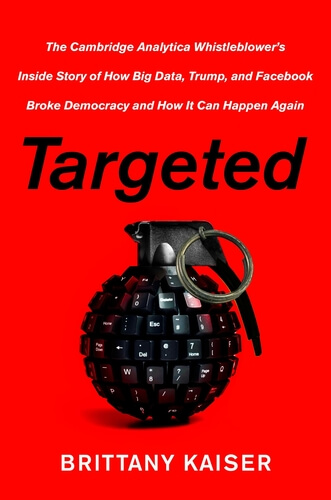
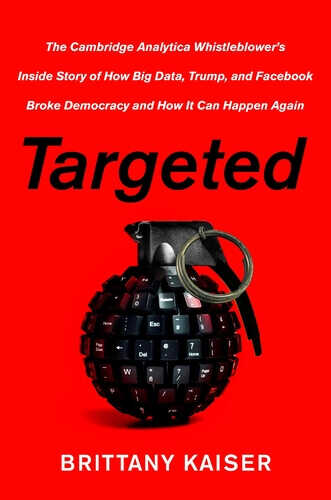
Added new book
Optimized images

diff --git a/js/data/translations/es-sv/min/booksList.js b/js/data/translations/es-sv/min/booksList.js
@@ -1,1 +1,1 @@
-const booksList=[{title:"Harry Potter y la Orden del Fénix",img:"../img/books/es/HP.jpg",link:"https://amzn.to/3pi6YCg"},{title:"Timeless Stories of El Salvador",img:"../img/books/mybook1.jpg",link:"https://amzn.to/3nnbn4e",isActive:!0},{title:"Como ganar amigos e influir sobre las personas",img:"../img/books/es/WF.jpg",link:"https://amzn.to/2ZEIzhg"},{title:"Cómo suprimir las preocupaciones y disfrutar de la vida",img:"../img/books/es/worry.jpg",link:"https://amzn.to/3EfkLzQ"},{title:"Your Next Five Moves (inglés)",img:"../img/books/en/moves.jpg",link:"https://amzn.to/3lriwSB"},{title:"Personal Branding with LinkedIn: The Think Natalia Method (inglés)",img:"../img/books/en/linkedin.jpg",link:"https://amzn.to/2MOgslZ"},{title:"El monje que vendió su Ferrari",img:"../img/books/es/monk.jpg",link:"https://amzn.to/3paJhM2"},{title:"Targeted (inglés)",img:"../img/books/en/targeted.jpg",link:"https://amzn.to/31h16AM"},{title:"Mala sangre: Secretos y mentiras en una startup de Silicon Valley",img:"../img/books/es/blood.jpg",link:"https://amzn.to/3dn4FZb"},{title:"The 25 Laws for Doing The Impossible (inglés)",img:"../img/books/en/impossible.jpg",link:"https://bit.ly/2L90eon"},{title:"Software Architecture for Developers (inglés)",img:"../img/books/en/arch.jpg",link:"https://bit.ly/3I29FjM"},{title:"User Story Mapping: Discover the Whole Story, Build the Right Product",img:"../img/books/en/sm.jpg",link:"https://bit.ly/377v3SN"}];
+const booksList=[{title:"Harry Potter y la Orden del Fénix",img:"../img/books/es/HP.jpg",author:"J.K. Rowling",link:"https://amzn.to/3pi6YCg"},{title:"Timeless Stories of El Salvador",img:"../img/books/mybook1.jpg",author:"Federico Navarrete",link:"https://amzn.to/3nnbn4e",isActive:!0},{title:"Como ganar amigos e influir sobre las personas",img:"../img/books/es/WF.jpg",author:"Dale Carnegie",link:"https://amzn.to/2ZEIzhg"},{title:"Cómo suprimir las preocupaciones y disfrutar de la vida",img:"../img/books/es/worry.jpg",author:"Dale Carnegie",link:"https://amzn.to/3EfkLzQ"},{title:"Your Next Five Moves (inglés)",img:"../img/books/en/moves.jpg",author:"Patrick Bet-David",link:"https://amzn.to/3lriwSB"},{title:"Personal Branding with LinkedIn: The Think Natalia Method (inglés)",img:"../img/books/en/linkedin.jpg",author:"Natalia Wiechowski",link:"https://amzn.to/2MOgslZ"},{title:"El coach de Sillicon Valley / Trillion Dollar Coach",img:"../img/books/es/coach.jpg",author:"Alan Eagle, Eric Schmidt, y Jonathan Rosenberg",link:"https://amzn.to/3ElMq1Y"},{title:"Targeted: The Cambridge Analytica Whistleblower's Inside Story of How Big Data, Trump, and Facebook Broke Democracy and How It Can Happen Again (inglés)",img:"../img/books/en/targeted.jpg",author:"Brittany Kaiser",link:"https://amzn.to/31h16AM"},{title:"Mala sangre: Secretos y mentiras en una startup de Silicon Valley",img:"../img/books/es/blood.jpg",author:"John Carreyrou",link:"https://amzn.to/3dn4FZb"},{title:"The 25 Laws for Doing The Impossible (inglés)",img:"../img/books/en/impossible.jpg",author:"Patrick Bet-David",link:"https://bit.ly/2L90eon"},{title:"Software Architecture for Developers (inglés)",img:"../img/books/en/arch.jpg",author:"Simon Brown",link:"https://bit.ly/3I29FjM"},{title:"User Story Mapping: Discover the Whole Story, Build the Right Product",img:"../img/books/en/sm.jpg",author:"Jeff Patton",link:"https://bit.ly/377v3SN"},{title:"El monje que vendió su Ferrari",img:"../img/books/es/monk.jpg",author:"Robin Sharma",link:"https://amzn.to/3paJhM2"}];

diff --git a/js/data/translations/en-us/min/booksList.js b/js/data/translations/en-us/min/booksList.js
@@ -1,1 +1,1 @@
-const booksList=[{title:"Harry Potter and the Order of the Phoenix",img:"../img/books/en/HP.jpg",link:"https://amzn.to/2TtC6wY"},{title:"Timeless Stories of El Salvador",img:"../img/books/mybook1.jpg",link:"https://amzn.to/3nnbn4e",isActive:!0},{title:"How to Win Friends and Influence People",img:"../img/books/en/WF.jpg",link:"https://bit.ly/2p0eZNl"},{title:"How to Stop Worrying and Start Living",img:"../img/books/en/worry.jpg",link:"https://amzn.to/2ivFURl"},{title:"Your Next Five Moves",img:"../img/books/en/moves.jpg",link:"https://amzn.to/3lriwSB"},{title:"Personal Branding with LinkedIn: The Think Natalia Method",img:"../img/books/en/linkedin.jpg",link:"https://amzn.to/2MOgslZ"},{title:"The Monk Who Sold His Ferrari",img:"../img/books/en/monk.jpg",link:"https://amzn.to/2fjDsY5"},{title:"Targeted",img:"../img/books/en/targeted.jpg",link:"https://amzn.to/31h16AM"},{title:"Bad Blood: Secrets and Lies in a Silicon Valley Startup",img:"../img/books/en/blood.jpg",link:"https://amzn.to/2XuIe9O"},{title:"The 25 Laws for Doing The Impossible",img:"../img/books/en/impossible.jpg",link:"https://bit.ly/2L90eon"},{title:"Software Architecture for Developers",img:"../img/books/en/arch.jpg",link:"https://bit.ly/3I29FjM"},{title:"User Story Mapping: Discover the Whole Story, Build the Right Product",img:"../img/books/en/sm.jpg",link:"https://bit.ly/377v3SN"}];
+const booksList=[{title:"Harry Potter and the Order of the Phoenix",img:"../img/books/en/HP.jpg",author:"J.K. Rowling",link:"https://amzn.to/2TtC6wY"},{title:"Timeless Stories of El Salvador",img:"../img/books/mybook1.jpg",author:"Federico Navarrete",link:"https://amzn.to/3nnbn4e",isActive:!0},{title:"How to Win Friends and Influence People",img:"../img/books/en/WF.jpg",author:"Dale Carnegie",link:"https://bit.ly/2p0eZNl"},{title:"How to Stop Worrying and Start Living",img:"../img/books/en/worry.jpg",author:"Dale Carnegie",link:"https://amzn.to/2ivFURl"},{title:"Your Next Five Moves",img:"../img/books/en/moves.jpg",author:"Patrick Bet-David",link:"https://amzn.to/3lriwSB"},{title:"Personal Branding with LinkedIn: The Think Natalia Method",img:"../img/books/en/linkedin.jpg",author:"Natalia Wiechowski",link:"https://amzn.to/2MOgslZ"},{title:"Trillion Dollar Coach",img:"../img/books/en/coach.jpg",author:"Alan Eagle, Eric Schmidt, and Jonathan Rosenberg",link:"https://amzn.to/3rurjH1"},{title:"Targeted: The Cambridge Analytica Whistleblower's Inside Story of How Big Data, Trump, and Facebook Broke Democracy and How It Can Happen Again",img:"../img/books/en/targeted.jpg",author:"Brittany Kaiser",link:"https://amzn.to/31h16AM"},{title:"Bad Blood: Secrets and Lies in a Silicon Valley Startup",img:"../img/books/en/blood.jpg",author:"John Carreyrou",link:"https://amzn.to/2XuIe9O"},{title:"The 25 Laws for Doing The Impossible",img:"../img/books/en/impossible.jpg",author:"Patrick Bet-David",link:"https://bit.ly/2L90eon"},{title:"Software Architecture for Developers",img:"../img/books/en/arch.jpg",author:"Simon Brown",link:"https://bit.ly/3I29FjM"},{title:"User Story Mapping: Discover the Whole Story, Build the Right Product",img:"../img/books/en/sm.jpg",author:"Jeff Patton",link:"https://bit.ly/377v3SN"},{title:"The Monk Who Sold His Ferrari",img:"../img/books/en/monk.jpg",author:"Robin Sharma",link:"https://amzn.to/2fjDsY5"}];

diff --git a/js/data/translations/es-sv/booksList.js b/js/data/translations/es-sv/booksList.js
@@ -2,62 +2,80 @@ const booksList = [
 	{
 		"title": "Harry Potter y la Orden del Fénix",
 		"img": "../img/books/es/HP.jpg",
+		"author": "J.K. Rowling",
 		"link": "https://amzn.to/3pi6YCg"
 	},
 	{
 		"title": "Timeless Stories of El Salvador",
 		"img": "../img/books/mybook1.jpg",
+		"author": "Federico Navarrete",
 		"link": "https://amzn.to/3nnbn4e",
 		"isActive": true
 	},
 	{
 		"title": "Como ganar amigos e influir sobre las personas",
 		"img": "../img/books/es/WF.jpg",
+		"author": "Dale Carnegie",
 		"link": "https://amzn.to/2ZEIzhg"
 	},
 	{
 		"title": "Cómo suprimir las preocupaciones y disfrutar de la vida",
 		"img": "../img/books/es/worry.jpg",
+		"author": "Dale Carnegie",
 		"link": "https://amzn.to/3EfkLzQ"
 	},
 	{
 		"title": "Your Next Five Moves (inglés)",
 		"img": "../img/books/en/moves.jpg",
+		"author": "Patrick Bet-David",
 		"link": "https://amzn.to/3lriwSB"
 	},
 	{
 		"title": "Personal Branding with LinkedIn: The Think Natalia Method (inglés)",
 		"img": "../img/books/en/linkedin.jpg",
+		"author": "Natalia Wiechowski",
 		"link": "https://amzn.to/2MOgslZ"
 	},
 	{
-		"title": "El monje que vendió su Ferrari",
-		"img": "../img/books/es/monk.jpg",
-		"link": "https://amzn.to/3paJhM2",
+		"title": "El coach de Sillicon Valley / Trillion Dollar Coach",
+		"img": "../img/books/es/coach.jpg",
+		"author": "Alan Eagle, Eric Schmidt, y Jonathan Rosenberg",
+		"link": "https://amzn.to/3ElMq1Y",
 	},
 	{
-		"title": "Targeted (inglés)",
+		"title": "Targeted: The Cambridge Analytica Whistleblower's Inside Story of How Big Data, Trump, and Facebook Broke Democracy and How It Can Happen Again (inglés)",
 		"img": "../img/books/en/targeted.jpg",
+		"author": "Brittany Kaiser",
 		"link": "https://amzn.to/31h16AM"
 	},
 	{
 		"title": "Mala sangre: Secretos y mentiras en una startup de Silicon Valley",
 		"img": "../img/books/es/blood.jpg",
+		"author": "John Carreyrou",
 		"link": "https://amzn.to/3dn4FZb"
 	},
 	{
 		"title": "The 25 Laws for Doing The Impossible (inglés)",
 		"img": "../img/books/en/impossible.jpg",
+		"author": "Patrick Bet-David",
 		"link": "https://bit.ly/2L90eon"
 	},
 	{
 		"title": "Software Architecture for Developers (inglés)",
 		"img": "../img/books/en/arch.jpg",
+		"author": "Simon Brown",
 		"link": "https://bit.ly/3I29FjM"
 	},
 	{
 		"title": "User Story Mapping: Discover the Whole Story, Build the Right Product",
 		"img": "../img/books/en/sm.jpg",
+		"author": "Jeff Patton",
 		"link": "https://bit.ly/377v3SN"
+	},
+	{
+		"title": "El monje que vendió su Ferrari",
+		"img": "../img/books/es/monk.jpg",
+		"author": "Robin Sharma",
+		"link": "https://amzn.to/3paJhM2",
 	}
 ];

diff --git a/js/data/translations/en-us/booksList.js b/js/data/translations/en-us/booksList.js
@@ -2,62 +2,80 @@ const booksList = [
 	{
 		"title": "Harry Potter and the Order of the Phoenix",
 		"img": "../img/books/en/HP.jpg",
+		"author": "J.K. Rowling",
 		"link": "https://amzn.to/2TtC6wY"
 	},
 	{
 		"title": "Timeless Stories of El Salvador",
 		"img": "../img/books/mybook1.jpg",
+		"author": "Federico Navarrete",
 		"link": "https://amzn.to/3nnbn4e",
 		"isActive": true
 	},
 	{
 		"title": "How to Win Friends and Influence People",
 		"img": "../img/books/en/WF.jpg",
+		"author": "Dale Carnegie",
 		"link": "https://bit.ly/2p0eZNl"
 	},
 	{
 		"title": "How to Stop Worrying and Start Living",
 		"img": "../img/books/en/worry.jpg",
+		"author": "Dale Carnegie",
 		"link": "https://amzn.to/2ivFURl"
 	},
 	{
 		"title": "Your Next Five Moves",
 		"img": "../img/books/en/moves.jpg",
+		"author": "Patrick Bet-David",
 		"link": "https://amzn.to/3lriwSB"
 	},
 	{
 		"title": "Personal Branding with LinkedIn: The Think Natalia Method",
 		"img": "../img/books/en/linkedin.jpg",
+		"author": "Natalia Wiechowski",
 		"link": "https://amzn.to/2MOgslZ"
 	},
 	{
-		"title": "The Monk Who Sold His Ferrari",
-		"img": "../img/books/en/monk.jpg",
-		"link": "https://amzn.to/2fjDsY5",
+		"title": "Trillion Dollar Coach",
+		"img": "../img/books/en/coach.jpg",
+		"author": "Alan Eagle, Eric Schmidt, and Jonathan Rosenberg",
+		"link": "https://amzn.to/3rurjH1",
 	},
 	{
-		"title": "Targeted",
+		"title": "Targeted: The Cambridge Analytica Whistleblower's Inside Story of How Big Data, Trump, and Facebook Broke Democracy and How It Can Happen Again",
 		"img": "../img/books/en/targeted.jpg",
+		"author": "Brittany Kaiser",
 		"link": "https://amzn.to/31h16AM"
 	},
 	{
 		"title": "Bad Blood: Secrets and Lies in a Silicon Valley Startup",
 		"img": "../img/books/en/blood.jpg",
+		"author": "John Carreyrou",
 		"link": "https://amzn.to/2XuIe9O"
 	},
 	{
 		"title": "The 25 Laws for Doing The Impossible",
 		"img": "../img/books/en/impossible.jpg",
+		"author": "Patrick Bet-David",
 		"link": "https://bit.ly/2L90eon"
 	},
 	{
 		"title": "Software Architecture for Developers",
 		"img": "../img/books/en/arch.jpg",
+		"author": "Simon Brown",
 		"link": "https://bit.ly/3I29FjM"
 	},
 	{
 		"title": "User Story Mapping: Discover the Whole Story, Build the Right Product",
 		"img": "../img/books/en/sm.jpg",
+		"author": "Jeff Patton",
 		"link": "https://bit.ly/377v3SN"
+	},
+	{
+		"title": "The Monk Who Sold His Ferrari",
+		"img": "../img/books/en/monk.jpg",
+		"author": "Robin Sharma",
+		"link": "https://amzn.to/2fjDsY5",
 	}
 ];
